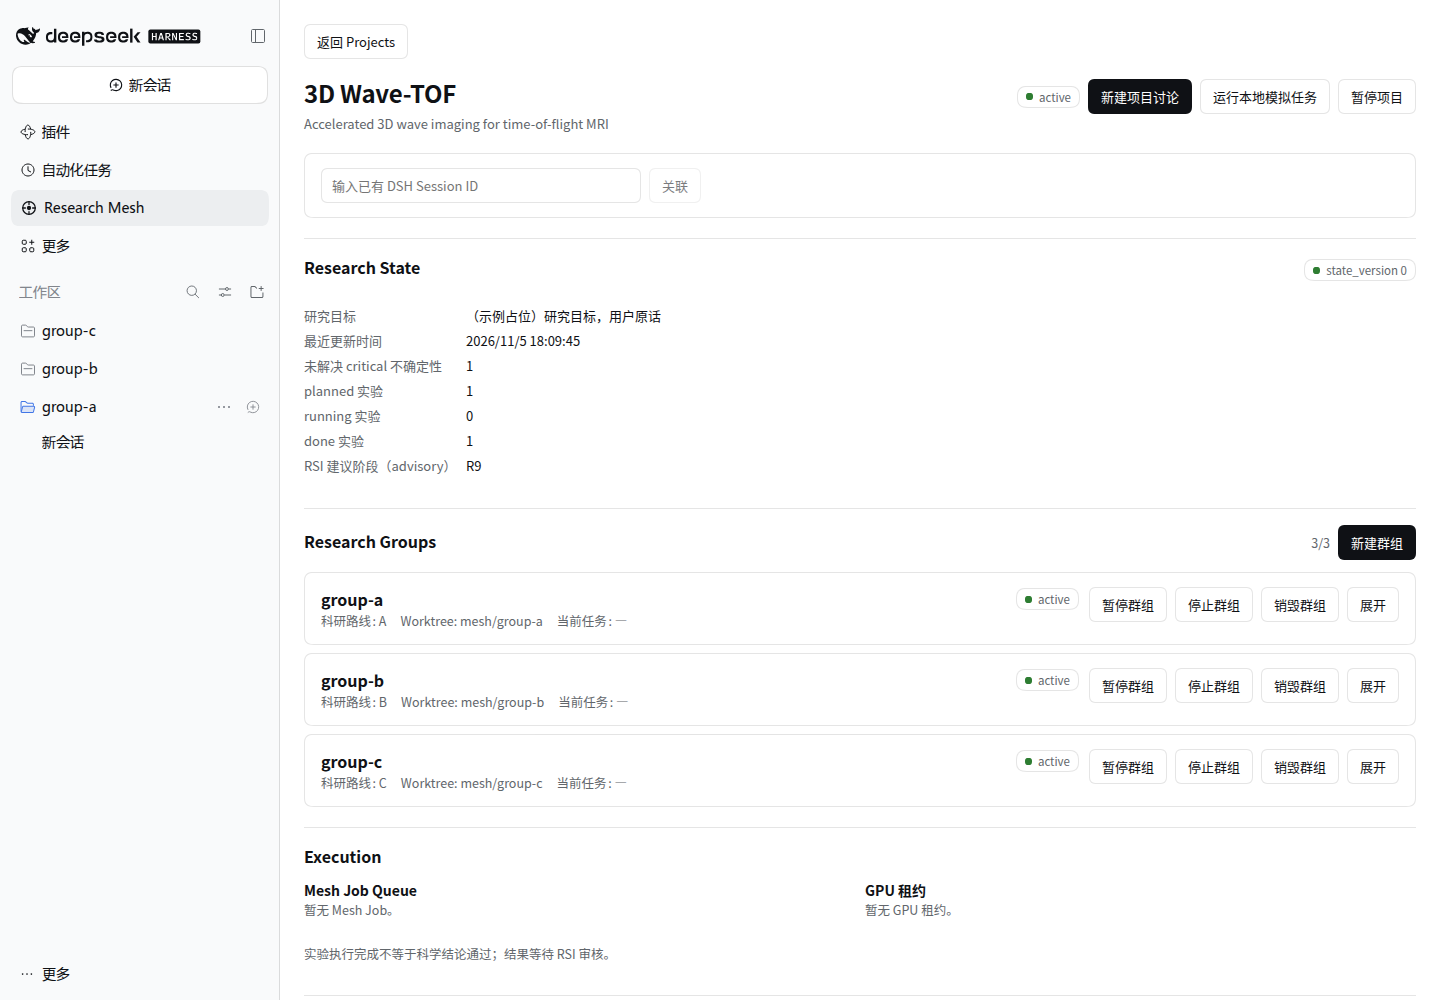
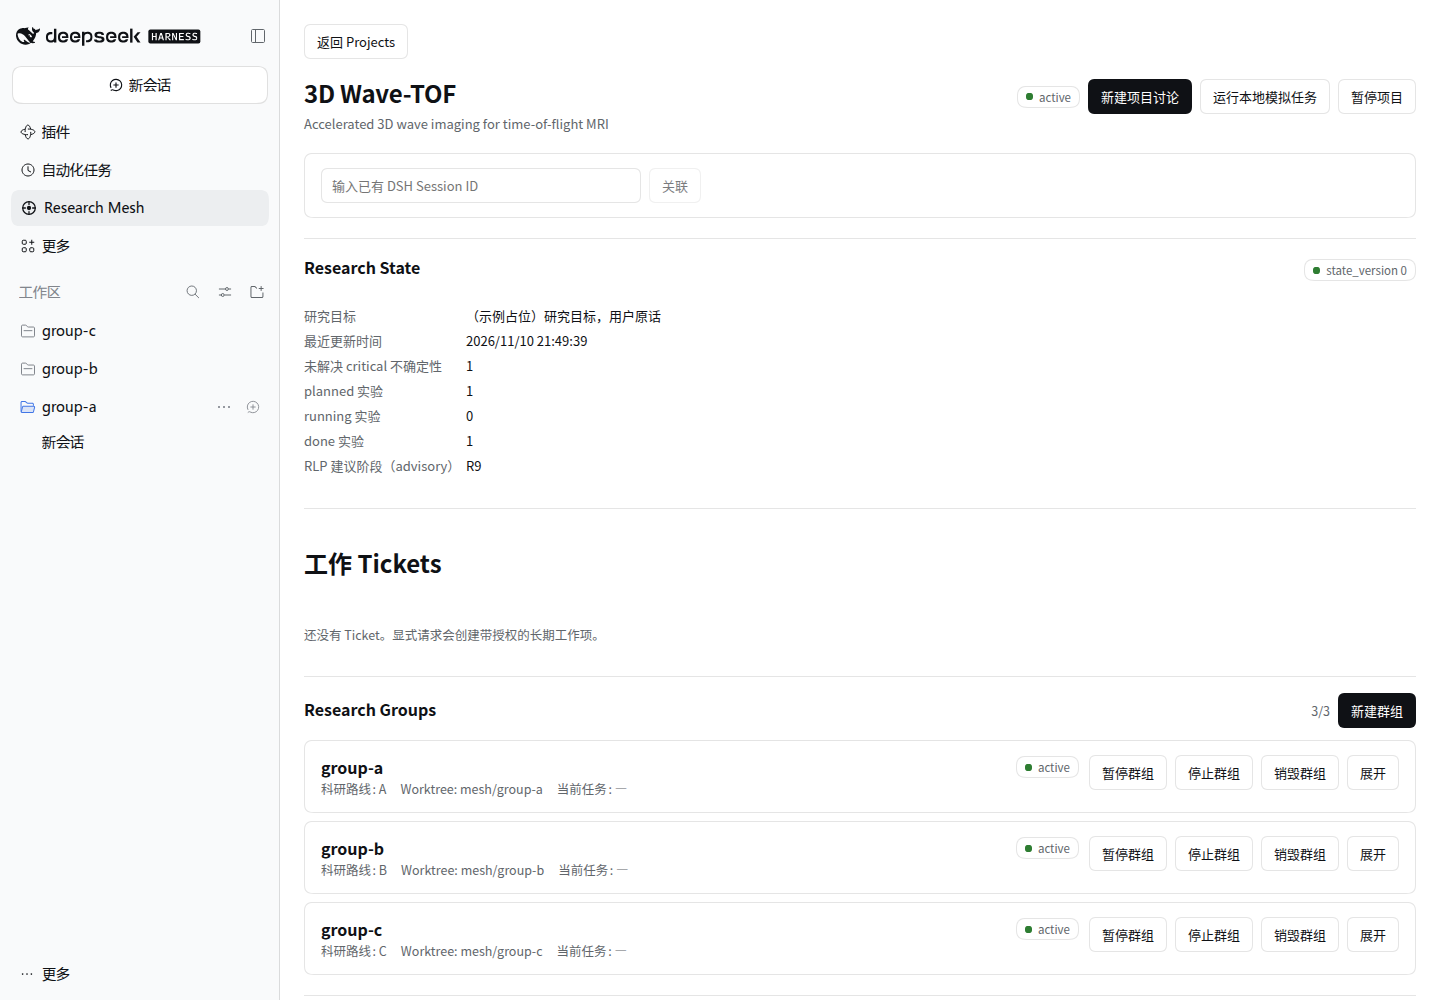
test(mesh): pass the isolated UI acceptance on RLP v2.2.0
- rename the remaining user-visible RSI labels to RLP (advisory phase,
  state-read error, scientific note, project/route hints);
- resolve the mock LLM adapter against the DSH that is actually running
  instead of a hardcoded stale global install, so `@deepseek-ai/dsh-llm`
  imports on the current Node 24 host;
- poll `/bootstrap` for the late-bound mock catalog in the acceptance
  script (rc1 activates `llm` after the plugin);
- refresh the 11 acceptance screenshots, now including the Workbench
  Tickets section;
- record the UI result and the adapter fix in docs/fusion 06/07/09.

Verification: node scripts/ui-acceptance.mjs PASS (3 groups, model
settings, dark mode, 1440/1280/768/390 no overflow), typecheck PASS,
test:all 124/124, check-dsh PASS.

diff --git a/client/client.js b/client/client.js
@@ -40,7 +40,7 @@ window.__ModuleLoader__.load({
         back: '返回 Projects',
         open: '打开工作台',
         newProject: '关联研究项目',
-        newProjectHint: '选择一个已有的 Git 仓库；插件会自动检测 RSI route。不会创建或伪造 Research State。',
+        newProjectHint: '选择一个已有的 Git 仓库；插件会自动检测 RLP 路线。不会创建或伪造 Research State。',
         repositoryRoot: 'Git 仓库根目录',
         repositoryRootHint: '整个仓库就是项目根；Mesh 控制目录和 worktree 由插件管理。',
         chooseFolder: '选择文件夹',
@@ -65,21 +65,21 @@ window.__ModuleLoader__.load({
         repoDetected: '已检测',
         repoRunnable: '当前运行时可以把该仓库作为可执行项目。',
         repoNotRunnable: '该仓库会被注册为只读项目；当前运行时的 sourceDir 是',
-        rsiRoute: 'RSI 路线',
-        migrationRequired: '这个仓库还没有 RSI Research State。',
+        rsiRoute: 'RLP 路线',
+        migrationRequired: '这个仓库还没有 RLP Research State。',
         migrationHint: '插件不会自动生成科研状态。请先用 rsi-pipeline skill 完成 Bootstrap/start-project，或复制下面的迁移提示词。',
         copyPrompt: '复制迁移提示词',
         copied: '已复制',
         copyManual: '请手动复制迁移提示词',
-        selectRouteFirst: '请先检测仓库并选择一个有效的 RSI route。',
+        selectRouteFirst: '请先检测仓库并选择一个有效的 RLP 路线。',
         cancel: '取消',
         create: '关联',
         name: '项目名称',
-        rsiState: 'RSI Research State 路径',
+        rsiState: 'RLP Research State 路径',
         repository: 'Git 仓库 / 工作区路径',
         description: '项目描述（可选）',
         noDescription: '未填写项目描述',
-        empty: '还没有研究项目。关联一个已有 RSI 项目以开始。',
+        empty: '还没有研究项目。关联一个已有 RLP 项目以开始。',
         loading: '正在加载…',
         error: '加载失败',
         retry: '重试',
@@ -107,9 +107,9 @@ window.__ModuleLoader__.load({
         rsiVersion: 'state_version',
         rsiGoal: '研究目标',
         rsiUpdated: '最近更新时间',
-        rsiAdvisory: 'RSI 建议阶段（advisory）',
+        rsiAdvisory: 'RLP 建议阶段（advisory）',
         rsiNext: '下一步合法动作（只读）',
-        rsiError: 'RSI 状态读取失败',
+        rsiError: 'RLP 状态读取失败',
         openCritical: '未解决 critical 不确定性',
         planned: 'planned 实验',
         running: 'running 实验',
@@ -168,7 +168,7 @@ window.__ModuleLoader__.load({
         jobOutput: '产物已回收',
         jobIngested: '已入库',
         assurancePending: '等待科学审核',
-        scientificNote: '实验执行完成不等于科学结论通过；结果等待 RSI 审核。',
+        scientificNote: '实验执行完成不等于科学结论通过；结果等待 RLP 审核。',
         attachSuccess: '已关联到项目',
         attachFailed: '关联失败',
         projectCreated: '项目已关联',
@@ -189,11 +189,11 @@ window.__ModuleLoader__.load({
         cancel: 'Cancel',
         create: 'Link',
         name: 'Project name',
-        rsiState: 'RSI Research State path',
+        rsiState: 'RLP Research State path',
         repository: 'Git repository / workspace path',
         description: 'Description (optional)',
         noDescription: 'No project description',
-        empty: 'No research projects yet. Link an existing RSI project to begin.',
+        empty: 'No research projects yet. Link an existing RLP project to begin.',
         loading: 'Loading…',
         error: 'Could not load',
         retry: 'Retry',
@@ -221,9 +221,9 @@ window.__ModuleLoader__.load({
         rsiVersion: 'state_version',
         rsiGoal: 'Research goal',
         rsiUpdated: 'Last updated',
-        rsiAdvisory: 'Advisory RSI phase',
+        rsiAdvisory: 'Advisory RLP phase',
         rsiNext: 'Next legal actions (read-only)',
-        rsiError: 'Could not read RSI state',
+        rsiError: 'Could not read RLP state',
         openCritical: 'Open critical uncertainties',
         planned: 'planned experiments',
         running: 'running experiments',
@@ -282,7 +282,7 @@ window.__ModuleLoader__.load({
         jobOutput: 'artifacts ready',
         jobIngested: 'ingested',
         assurancePending: 'awaiting scientific review',
-        scientificNote: 'Execution success is not a scientific conclusion; results await RSI review.',
+        scientificNote: 'Execution success is not a scientific conclusion; results await RLP review.',
         attachSuccess: 'Attached to project',
         attachFailed: 'Attach failed',
         projectCreated: 'Project linked',
@@ -622,7 +622,7 @@ window.__ModuleLoader__.load({
             value: form.rsiStateRef, onChange: event => set('rsiStateRef', event.target.value),
           }))
       const status = inspection === null ? null : h('div', { className: inspection.runnable ? 'mesh-inline-note' : 'mesh-warn' },
-        h('div', null, `${t('repoDetected')}: ${inspection.routes.length} RSI route(s)`),
+        h('div', null, `${t('repoDetected')}: ${inspection.routes.length} RLP route(s)`),
         h('div', { className: 'mesh-muted' }, inspection.runnable
           ? t('repoRunnable')
           : `${t('repoNotRunnable')} ${inspection.configuredSourceDir}`))
@@ -707,7 +707,7 @@ window.__ModuleLoader__.load({
       h('div', { className: 'mesh-muted' }, project.description || t('noDescription')),
       h('div', { className: 'mesh-meta' },
         h('span', null, `${t('groups')}: ${project.groupCount}`),
-        h('span', null, `RSI: ${project.rsiReadable ? `v${project.rsiVersion}` : 'unavailable'}`),
+        h('span', null, `RLP: ${project.rsiReadable ? `v${project.rsiVersion}` : 'unavailable'}`),
         h('span', null, `${t('rsiUpdated')}: ${formatTime(project.updatedAt)}`),
         project.runnable ? null : h('span', { className: 'mesh-tag' }, 'registered (not runnable here)')))
       const list = projects.length === 0

diff --git a/docs/fusion/07-test-evidence.md b/docs/fusion/07-test-evidence.md
@@ -12,6 +12,8 @@ node scripts/check-dsh.mjs
 # check-dsh: installed 0.2.2-rc.1; engines.dsh >=0.2.1-rc.2 <0.3.0-0; PASS
 # check-dsh: @deepseek-ai/schemastery 3.19.0; PASS
 node --check client/client.js   # PASS
+node scripts/ui-acceptance.mjs  # PASS (isolated profile, headless Chrome)
+# {"ok":true,"teams":3,"screenshots":[11 files],"tokenUsed":true}
 ```
 
 ## 2. Counts
@@ -44,10 +46,10 @@ consumed ledger; artifact SHA-256; restart/reconcile; web API; client bundle.
 
 ## 5. Known untested / not run
 
-1. **Real Web UI acceptance** (`scripts/ui-acceptance.mjs`) was not run in this
-   round: it boots an isolated DSH profile and headless Chrome and takes several
-   minutes. The bundle syntax check passed; the Tickets section reuses existing
-   classes. Run it before a release tag.
+1. **Real Web UI acceptance** passed on an isolated profile: project, three
+   groups, Captain/member sessions, model settings, dark mode and responsive
+   overflow checks. The Tickets stop/resume buttons are not clicked by the
+   script (they are covered by unit/integration tests).
 2. **Real SSH / GPU / Conda** execution is unchanged from v0.1.0 and remains
    verified only by the recorded `LIVE-*` scenarios.
 3. **Real RLP `run --execute` shim round trip** is still covered by unit-level
@@ -66,3 +68,5 @@ consumed ledger; artifact SHA-256; restart/reconcile; web API; client bundle.
 | autonomy effects test red | test clock ahead of wall-clock row | test advances the injected clock |
 | `RlpContextAdapter` packet check red | `verify` output has no `is_canonical_state` | adapter asserts from the packet file |
 | `MANDATE_REVALIDATION_REQUIRED` missing | new failure code not declared | added to `MeshErrorCode` |
+| UI acceptance: "mock catalog did not register" | mock adapter hardcoded a stale global DSH install and could not import `@deepseek-ai/dsh-llm` | adapter now resolves the running DSH (PATH symlink → real package) with `DSH_INSTALL` override |
+| UI acceptance: catalog empty on first request | rc1 activates `llm` after the plugin | acceptance polls `/bootstrap` until the catalog appears |

diff --git a/docs/UI.md b/docs/UI.md
@@ -4,8 +4,8 @@
 
 Two main views:
 
-1. **Projects** — long-lived research projects, RSI readability, group count, status.
-2. **Project Workbench** — RSI summary, three groups, execution, recent activity.
+1. **Projects** — long-lived research projects, RLP readability, group count, status.
+2. **Project Workbench** — RLP summary, three groups, execution, recent activity.
 
 Group detail expands inside the Workbench. Conversations stay in DSH's native chat.
 Model configuration is a `settings.section` page plus a full-width Models view in the
@@ -34,7 +34,7 @@ used for the console.
 
 ### Projects
 
-- Empty state: "还没有研究项目。关联一个已有 RSI 项目以开始。"
+- Empty state: "还没有研究项目。关联一个已有 RLP 项目以开始。"
 - Link form asks name, canonical `research-state.json` path, Git repository path and an
   optional description.
 - Host rejects a missing/invalid state, a state without `state_version`, or a non-Git
@@ -47,7 +47,7 @@ used for the console.
 
 - Header: back, project name/description, status, new discussion, local simulation,
   pause/resume.
-- RSI: `state_version`, goal, last file update, critical uncertainties, planned/running/
+- RLP: `state_version`, goal, last file update, critical uncertainties, planned/running/
   done experiments, scheduler `next_actions` (read-only). A `decision.next_phase` is
   labelled **advisory**; Mesh never invents an R0–R14 stage.
 - Groups: route, worktree branch, current Mesh task. Expanded: Captain, four subagent

diff --git a/docs/fusion/09-final-audit.md b/docs/fusion/09-final-audit.md
@@ -25,8 +25,8 @@
    means "auto" mode does not yet produce an autonomous execution loop.
 2. **RLP Bootstrap is not invoked.** Mesh registers an existing READY checkout;
    creating a new RLP project remains an RLP operation.
-3. **UI acceptance not run** on this branch; the Tickets panel reuses existing
-   classes and passes a syntax check only.
+3. **UI acceptance passed**, but the Tickets action buttons are not exercised by
+   that script; they are covered by unit/integration tests only.
 4. **One runnable project per profile** is unchanged; multi-project still needs
    multiple profiles and ports.
 5. **No live RLP `run --execute` round trip** in this environment; the shim and
@@ -38,7 +38,7 @@
 
 Not yet a production release:
 
-- run `node scripts/ui-acceptance.mjs` on an isolated profile;
+- ~~run `node scripts/ui-acceptance.mjs` on an isolated profile~~ (passed 2026-11-10);
 - exercise one live consumed-ledger job against a scratch project;
 - decide the Ticket → Captain dispatch mechanism.
 
@@ -60,4 +60,10 @@ root/skill.
 
 ## 5. Local commit
 
-See `git log -1` on `feat/rlp-v2.2-fusion`; nothing pushed.
+- Branch: `feat/rlp-v2.2-fusion`
+- `feat(mesh): integrate RLP v2.2.0 and the autonomy ticket layer`
+- `test(mesh): pass the isolated UI acceptance on RLP v2.2.0`
+
+(exact hashes: `git log --oneline main..HEAD`)
+- Base: `6479734` (`main`, `origin/main` + 1 local commit)
+- Nothing was pushed, merged, tagged or deployed.

diff --git a/docs/fusion/06-ui-and-user-flow.md b/docs/fusion/06-ui-and-user-flow.md
@@ -59,10 +59,21 @@ override, explicit provider/model, no fallback. RLP-specific settings are
 deliberately minimal: `rlp.skillPath` (optional), `rlp.autonomyMode`,
 `rlp.autonomyPolicyVersion`. No scientific knob is exposed in the UI.
 
-## 6. Not in this version
+## 6. Verification
+
+`node scripts/ui-acceptance.mjs` passed on an isolated `DSH_HOME` and profile
+(port 3311, headless Chrome): project creation, three groups, Captain/member
+sessions, model settings persistence, dark appearance, and no horizontal
+overflow at 1440 / 1280 / 768 / 390. The Workbench capture now includes the
+Tickets section (`docs/screenshots/workbench-1440.png`).
+
+Visible labels were renamed from RSI to RLP, including the advisory phase, the
+state-read error and the scientific note. API fields such as `rsiReadable` /
+`rsiVersion` keep their names as compatibility aliases.
+
+## 7. Not in this version
 
 - Project deletion and worktree cleanup stay API-only.
 - A full decision-trace viewer is not built; the event list links to RLP state.
-- No screenshot refresh was performed for this branch (the UI change is
-  additive and reuses existing classes); `scripts/ui-acceptance.mjs` covers the
-  shell and should be re-run before a release tag.
+- Ticket stop/resume is exercised by unit/integration tests; the acceptance
+  script does not click those buttons yet.
